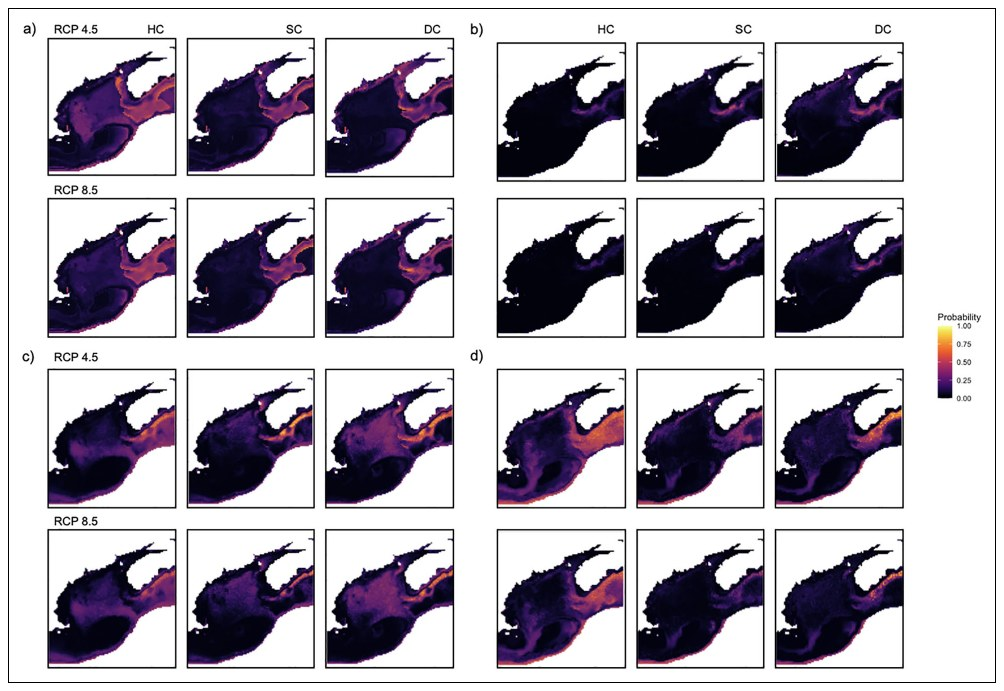
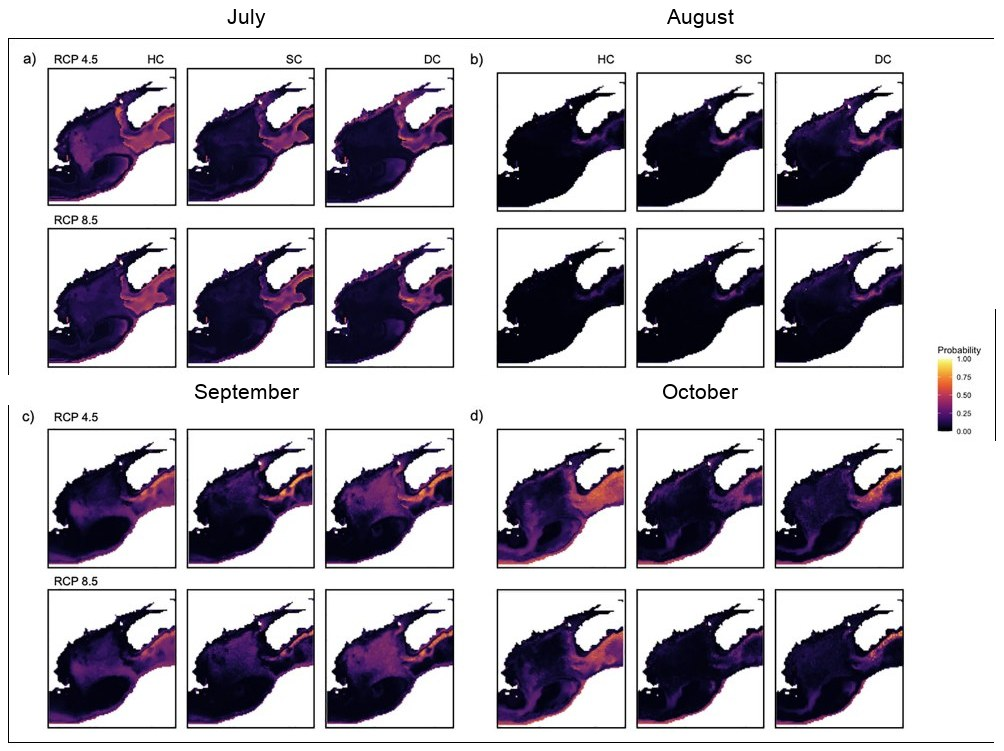
Label the months on the 2050 projection figure
The published figure marks its four blocks a) to d) and leaves the months to
the caption, so a reader has to hold the mapping in mind while looking. July,
August, September and October are now on the figure itself.

Two things the split had to avoid. Inserting a label band bisected the
Probability colour bar, so the legend is lifted out and re-placed once, whole.
And blanking it left stubs of the figure's outer frame beside it, so that edge
is dropped.

Caption and alt text updated to match: the months are on the figure now, and
the chlorophyll assumptions are spelled out rather than left as HC/SC/DC.

diff --git a/_pages/research.md b/_pages/research.md
@@ -129,8 +129,8 @@ Maine](/publication/2023-01-01-gulf-of-maine-oceanography)
 
 
 <figure class="research-fig">
-  <img src="/images/research/habitat-2050.jpg" alt="Twenty-four small maps of the Gulf of Maine showing modelled right whale habitat suitability in the year 2050, for July, August, September and October, under two emissions scenarios and three chlorophyll assumptions. Suitability concentrates along the shelf edge and eastern Gulf." loading="lazy" decoding="async">
-  <figcaption>Year-2050 habitat suitability projections under two emissions scenarios (RCP 4.5 and 8.5) and three chlorophyll assumptions, for July to October. <span class="research-fig__cite">From Ross et al. (2021), <i>Elementa: Science of the Anthropocene</i> 9(1):00058. <a href="https://doi.org/10.1525/elementa.2020.20.00058">doi.org/10.1525/elementa.2020.20.00058</a>. CC BY 4.0.</span></figcaption>
+  <img src="/images/research/habitat-2050.jpg" alt="Twenty-four small maps of the Gulf of Maine showing modelled right whale habitat suitability in the year 2050, arranged in four labelled blocks for July, August, September and October, each under two emissions scenarios and three chlorophyll assumptions. Suitability concentrates along the shelf edge and the eastern Gulf." loading="lazy" decoding="async">
+  <figcaption>Year-2050 habitat suitability projections by month, under two emissions scenarios (RCP 4.5 and 8.5) and three chlorophyll assumptions (half, same, and double present chlorophyll). <span class="research-fig__cite">From Ross et al. (2021), <i>Elementa: Science of the Anthropocene</i> 9(1):00058. <a href="https://doi.org/10.1525/elementa.2020.20.00058">doi.org/10.1525/elementa.2020.20.00058</a>. CC BY 4.0.</span></figcaption>
 </figure>
 
 ## Methods and tools
